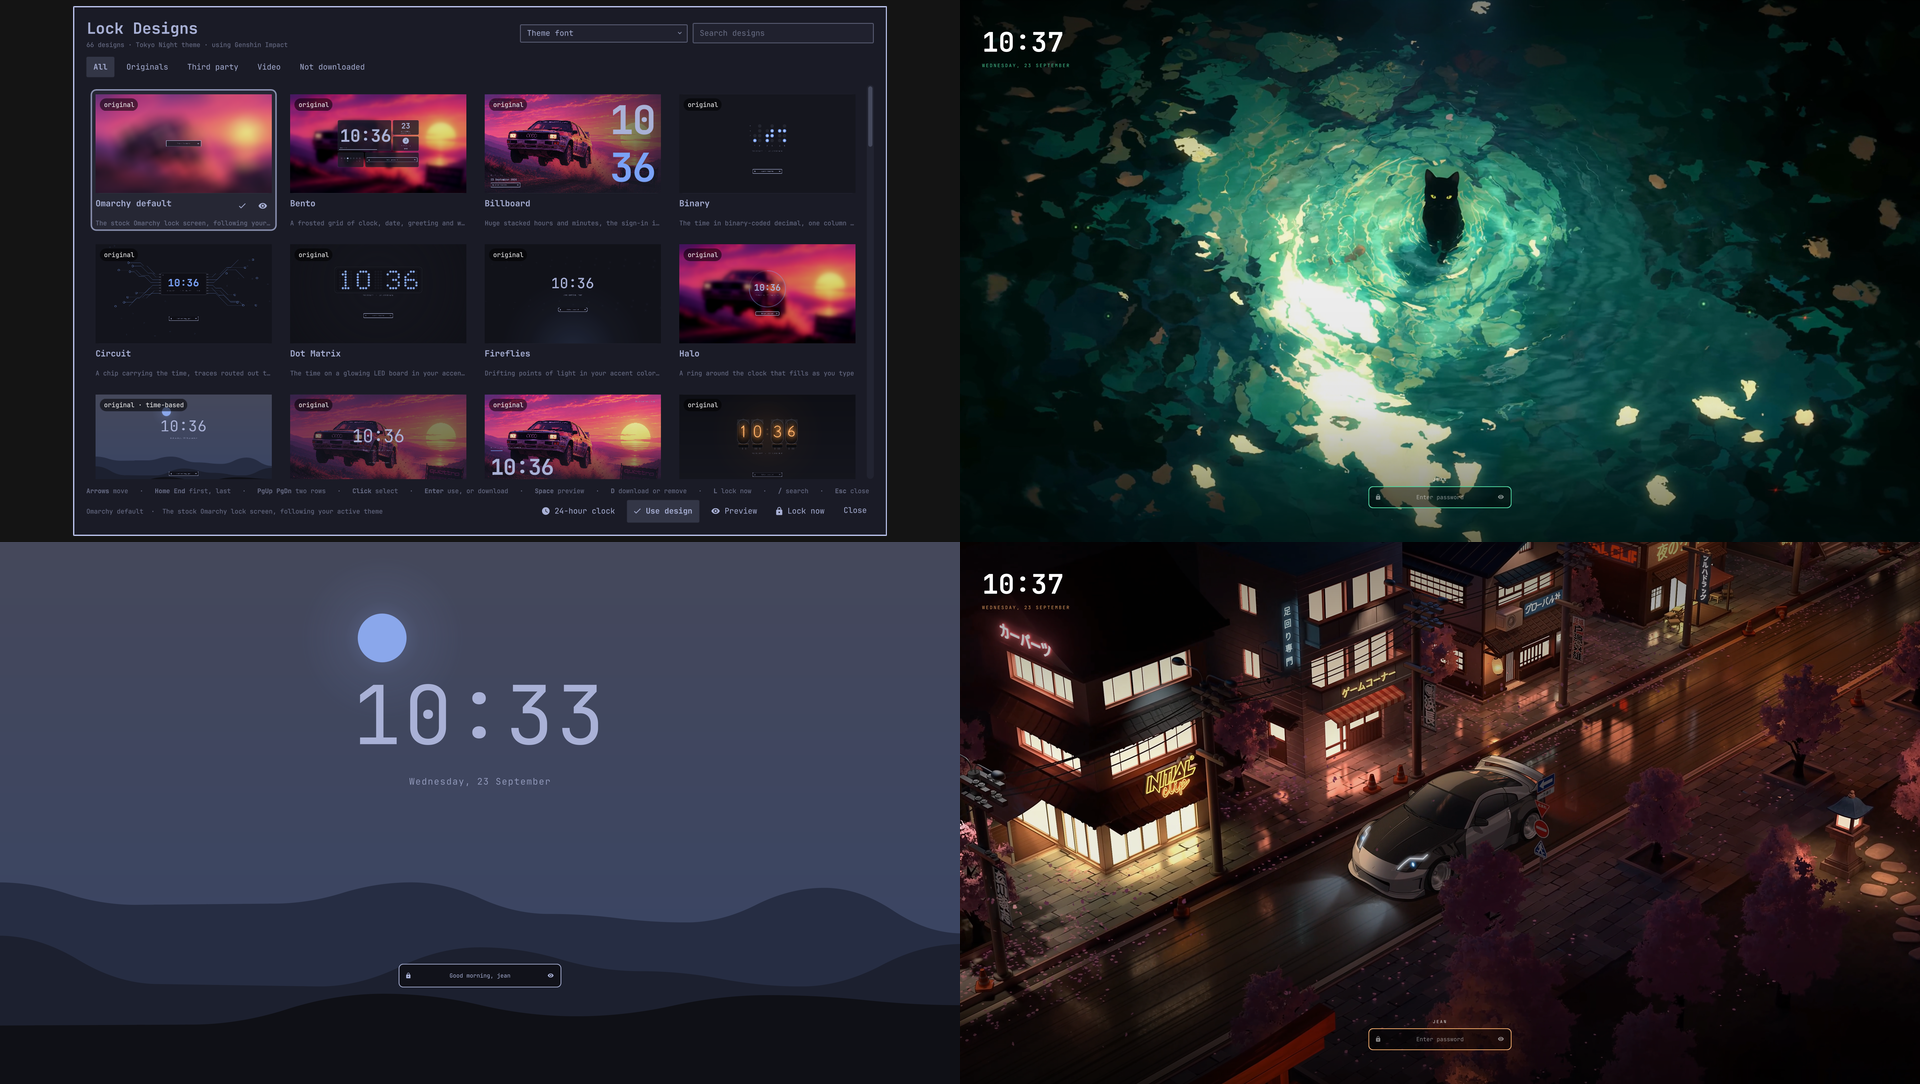
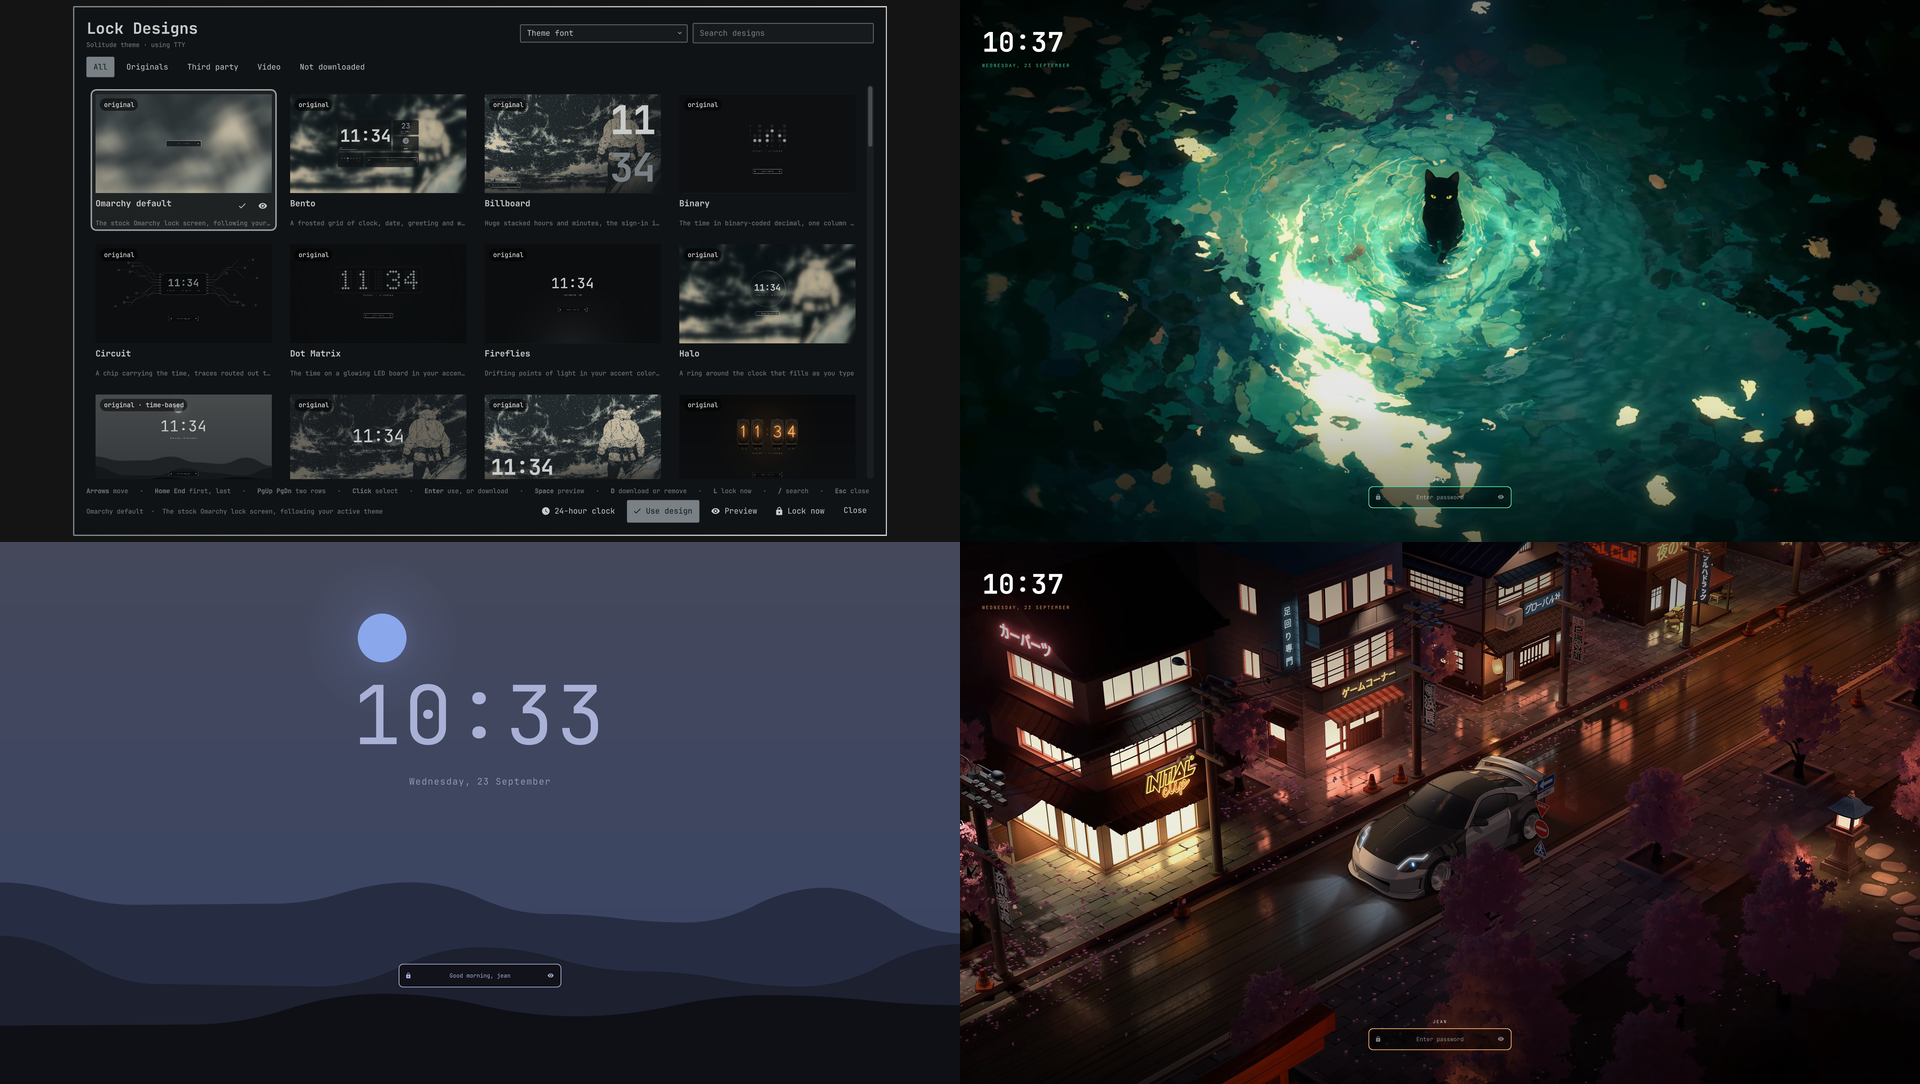
Make the chosen filter and primary button legible on any theme
The kit paints a selected button as a faint wash of its label color and
recolors the label with the theme's selected token, which on monochrome
themes such as Solitude comes out as light text on a light-grey wash, a
hover at best. The chosen filter chip and the Use design button now sit
on a solid accent pill drawn behind them, with the label in the picker's
background color, and are left unselected in the kit's eyes so nothing
overrides that.

The header line drops the design count and reads "<Theme> theme · using
<design>". Submission notes mention the header and key legend; the
preview image shows the current picker.

diff --git a/Picker.qml b/Picker.qml
@@ -270,9 +270,10 @@ Item {
               font.weight: Font.Bold
             }
             Text {
-              text: root.designs.length + " designs"
-                + (root.service && root.service.themeName.length > 0 ? " · " + root.service.themeName + " theme" : "")
-                + (root.activeDesign ? " · using " + root.activeDesign.name : "")
+              text: [
+                root.service && root.service.themeName.length > 0 ? root.service.themeName + " theme" : "",
+                root.activeDesign ? "using " + root.activeDesign.name : ""
+              ].filter(function(s) { return s.length > 0 }).join(" · ")
               color: root.muted
               font.family: root.fontFamily
               font.pixelSize: Style.font.caption
@@ -356,14 +357,32 @@ Item {
               { id: "video", label: "Video" },
               { id: "missing", label: "Not downloaded" }
             ]
-            delegate: Button {
+            // The kit's selected state is a faint wash of the label color,
+            // which reads as a hover on many themes, and it recolors the
+            // label with the theme's selected token. The chosen filter is
+            // left unselected in the kit's eyes and gets a solid accent pill
+            // behind it with its label in the background color instead,
+            // legible whatever the theme's accent is.
+            delegate: Item {
+              id: chipCell
               required property var modelData
-              text: modelData.label
-              selected: root.filter === modelData.id
-              foreground: root.foreground
-              accent: root.accent
-              fontFamily: root.fontFamily
-              onClicked: { root.filter = modelData.id; root.currentIndex = 0; keys.forceActiveFocus() }
+              readonly property bool current: root.filter === modelData.id
+              width: chip.implicitWidth
+              height: chip.implicitHeight
+              Rectangle {
+                anchors.fill: parent
+                radius: chip.radius
+                color: root.accent
+                visible: chipCell.current
+              }
+              Button {
+                id: chip
+                text: chipCell.modelData.label
+                foreground: chipCell.current ? root.background : root.foreground
+                accent: root.accent
+                fontFamily: root.fontFamily
+                onClicked: { root.filter = chipCell.modelData.id; root.currentIndex = 0; keys.forceActiveFocus() }
+              }
             }
           }
         }
@@ -700,22 +719,36 @@ Item {
               fontFamily: root.fontFamily
               onClicked: if (root.service) root.service.setTwelveHour(!root.service.twelveHour)
             }
-            Button {
+            // The primary action: a solid accent pill, same as the chosen
+            // filter chip, so it is the one obvious button in the row.
+            Item {
+              id: useCell
               readonly property var d: root.current
               readonly property bool inUse: d !== null && d.id === root.activeId
               readonly property bool ready: root.isReady(d)
               readonly property var dl: root.downloadOf(d)
-              text: d === null ? "Use design"
-                : inUse ? "In use"
-                : (dl && dl.phase !== "failed") ? root.stateLabel(d)
-                : ready ? "Use design" : "Download " + root.sizeLabel(d)
-              iconText: inUse ? "" : (ready ? "" : "")
-              selected: !inUse && d !== null
+              readonly property bool primary: !inUse && d !== null
+              width: useButton.implicitWidth
+              height: useButton.implicitHeight
               opacity: inUse || d === null ? 0.55 : 1
-              foreground: root.foreground
-              accent: root.accent
-              fontFamily: root.fontFamily
-              onClicked: if (!inUse) root.activate(d)
+              Rectangle {
+                anchors.fill: parent
+                radius: useButton.radius
+                color: root.accent
+                visible: useCell.primary
+              }
+              Button {
+                id: useButton
+                text: useCell.d === null ? "Use design"
+                  : useCell.inUse ? "In use"
+                  : (useCell.dl && useCell.dl.phase !== "failed") ? root.stateLabel(useCell.d)
+                  : useCell.ready ? "Use design" : "Download " + root.sizeLabel(useCell.d)
+                iconText: useCell.inUse ? "" : (useCell.ready ? "" : "")
+                foreground: useCell.primary ? root.background : root.foreground
+                accent: root.accent
+                fontFamily: root.fontFamily
+                onClicked: if (!useCell.inUse) root.activate(useCell.d)
+              }
             }
             Button {
               text: "Preview"

diff --git a/SUBMISSION.md b/SUBMISSION.md
@@ -40,7 +40,9 @@ The plugin is a standalone lock screen. It is a clone of omarchy.lock
 (manifest `omarchy.clonedFrom`), so the session lock, PAM password and
 fingerprint flows, blanking and stranded-lock recovery are Omarchy's own
 code; only the drawn design changes. `service` kind for the lock, `overlay`
-kind for the picker, opened with `omarchy-shell lock explore`.
+kind for the picker, opened with `omarchy-shell lock explore`. The picker
+names the active Omarchy theme in its header and lists every key along its
+bottom edge.
 
 Writes only to ~/.config/omarchy/lock-designs/ (designs, previews, the asset
 catalog, downloaded assets, settings.json). Nothing in the plugin runs as

diff --git a/CHANGELOG.md b/CHANGELOG.md
@@ -43,6 +43,11 @@ eight originals in everyday layouts, the kind you leave on.
 ### Changed
 
 - The design grid moved up into the space the tab strip used.
+- The chosen filter chip and the Use design button sit on a solid accent
+  pill with their label in the background color, so the selection reads on
+  any theme; the kit's own selected state was a faint wash that looked like
+  a hover on monochrome themes. The header line names the theme and the
+  design in use and no longer counts the designs.
 
 ## 2.0.0 (2026-09-22)
 
